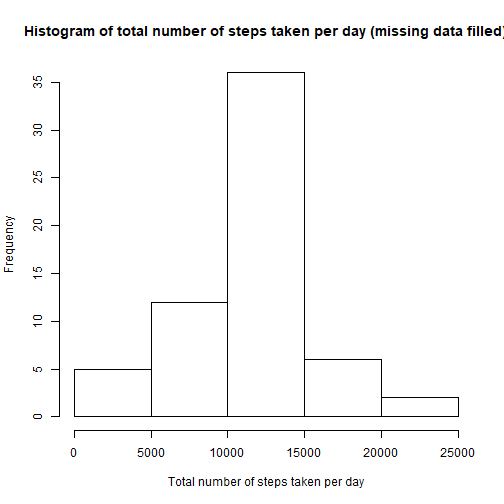
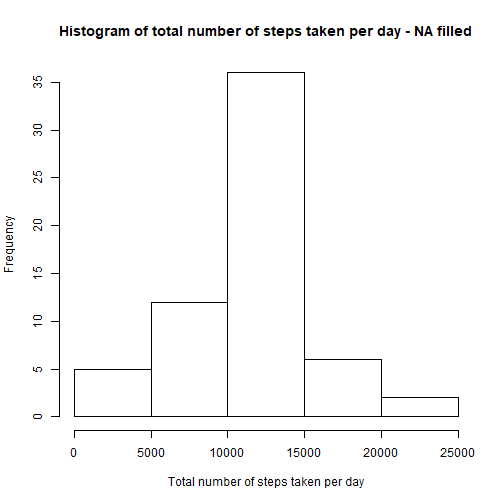
Rep Data Peer Assessment 1

Changed region(s): [[0.0298, 0.0298, 1.0, 0.0893]]

diff --git a/PA1_template.html b/PA1_template.html
@@ -211,7 +211,7 @@ library(ggplot2)
 
 <h2>Step 2 - Read the source data into the dataframe - rawdf</h2>
 
-<pre><code class="r">rawdf &lt;- read.csv(&#39;C:/Users/Sam/Documents/ReproducibleResearch/Raw/activity.csv&#39;, na.strings = &quot;NA&quot;)
+<pre><code class="r">rawdf &lt;- read.csv(&#39;C:/Users/Sam/Documents/RepData/RepData_PeerAssessment1/activity.csv&#39;, na.strings = &quot;NA&quot;)
 rawdf$date &lt;- as.Date(rawdf$date)
 </code></pre>
 
@@ -274,10 +274,10 @@ rawdf_2 &lt;- mutate(rawdf_2, steps = ifelse(is.na(steps), AvgSteps, steps))
 
 <h2>Step 12 - Plot the histogram showing the total number of steps taken in the dataframe rawdf_2</h2>
 
-<pre><code class="r">hist(stepbydates_2$sumsteps, xlab = &#39;Total number of steps taken per day&#39;, main = &#39;Histogram of total number of steps taken per day (missing data filled)&#39;)
+<pre><code class="r">hist(stepbydates_2$sumsteps, xlab = &#39;Total number of steps taken per day&#39;, main = &#39;Histogram of total number of steps taken per day - NA filled&#39;)
 </code></pre>
 
[2 lines of base64/hex data omitted]
 
 <h2>Step 12 - Calculate the mean and median of the total number of steps taken each day in the dataframe rawdf_2</h2>
 

diff --git a/PA1_template.md b/PA1_template.md
@@ -12,7 +12,7 @@ library(ggplot2)
 
 
 ```r
-rawdf <- read.csv('C:/Users/Sam/Documents/ReproducibleResearch/Raw/activity.csv', na.strings = "NA")
+rawdf <- read.csv('C:/Users/Sam/Documents/RepData/RepData_PeerAssessment1/activity.csv', na.strings = "NA")
 rawdf$date <- as.Date(rawdf$date)
 ```
 
@@ -95,7 +95,7 @@ stepbydates_2 <- group_by(rawdf_2, date) %>% summarise(sumsteps = sum(steps))
 
 
 ```r
-hist(stepbydates_2$sumsteps, xlab = 'Total number of steps taken per day', main = 'Histogram of total number of steps taken per day (missing data filled)')
+hist(stepbydates_2$sumsteps, xlab = 'Total number of steps taken per day', main = 'Histogram of total number of steps taken per day - NA filled')
 ```
 
 ![plot of chunk Histogram_Total_Steps_NoMissing](figure/Histogram_Total_Steps_NoMissing-1.png)
